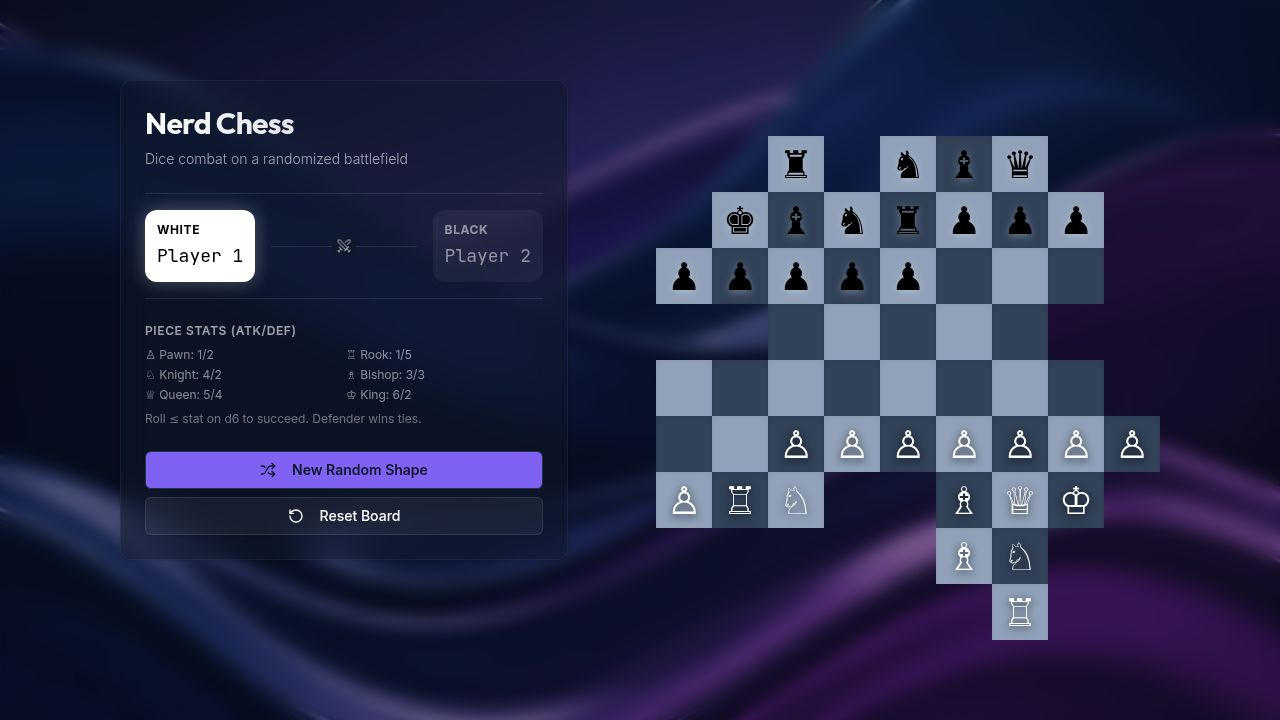
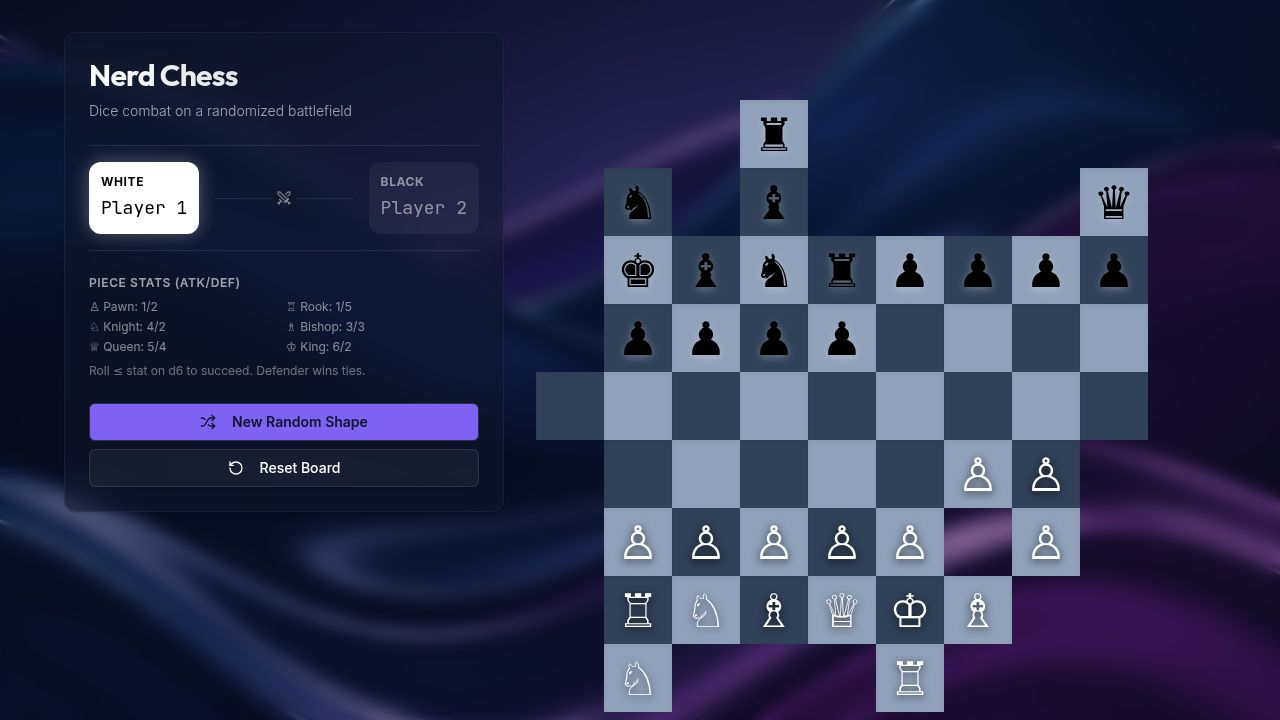
Enlarge the game board and position the information panel in the top right
Adjusted the board width to double its size and implemented a fixed, scaled-down game info panel in the top-right corner using CSS transforms.

Replit-Commit-Author: Agent
Replit-Commit-Session-Id: f3e3f0ce-dd2f-42f6-bda1-d2cb76308eb7
Replit-Commit-Checkpoint-Type: full_checkpoint
Replit-Commit-Event-Id: e15e69c5-307e-4b67-8e66-9ea426534693
Replit-Commit-Screenshot-Url: https://storage.googleapis.com/screenshot-production-us-central1/e55a0601-a798-4d94-9aba-74c20afbb966/f3e3f0ce-dd2f-42f6-bda1-d2cb76308eb7/eVX6y61
Replit-Helium-Checkpoint-Created: true

diff --git a/client/src/pages/home.tsx b/client/src/pages/home.tsx
@@ -135,7 +135,9 @@ export default function Home() {
       if (window.innerWidth < 640) {
         setBoardWidth(window.innerWidth - 48);
       } else {
-        setBoardWidth(560);
+        const target = 1120; // 2x of the previous 560
+        const max = Math.min(window.innerWidth - 80, window.innerHeight - 80);
+        setBoardWidth(Math.min(target, max));
       }
     }
 
@@ -409,10 +411,10 @@ export default function Home() {
         </div>
       )}
 
-      <div className="relative z-10 w-full max-w-6xl flex flex-col lg:flex-row gap-8 items-center lg:items-start justify-center">
+      <div className="relative z-10 w-full flex items-center justify-center">
 
-        {/* Game Info Panel */}
-        <div className="w-full max-w-md space-y-4 order-2 lg:order-1">
+        {/* Game Info Panel (legend) — scaled to 50% in the top-right corner */}
+        <div className="fixed top-2 right-2 z-40 origin-top-right scale-[0.5] w-[28rem]">
           <Card className="glass-card p-6 space-y-6 text-white border-white/10">
             <div className="space-y-2">
               <h1 className="text-3xl font-display font-bold text-transparent bg-clip-text bg-gradient-to-r from-white to-white/70">
@@ -478,7 +480,7 @@ export default function Home() {
 
         {/* Chess Board */}
         <div
-          className="order-1 lg:order-2 relative"
+          className="relative"
           style={{ width: boardWidth, height: boardWidth }}
           data-testid="chessboard"
         >
